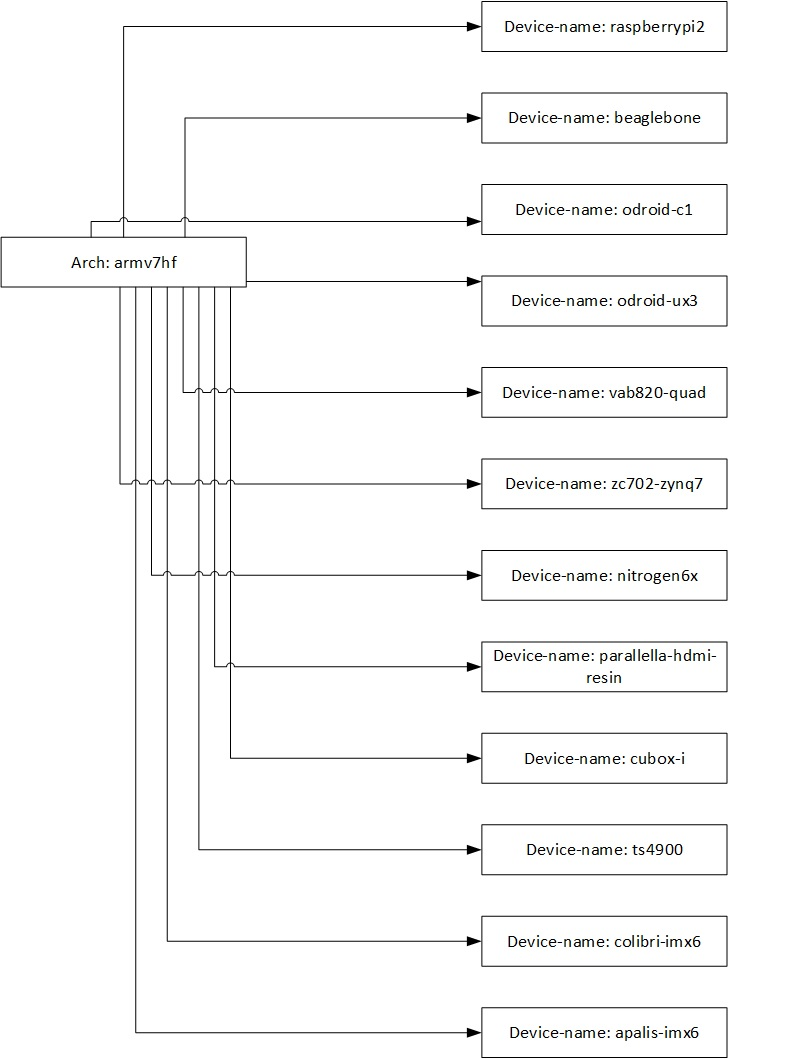
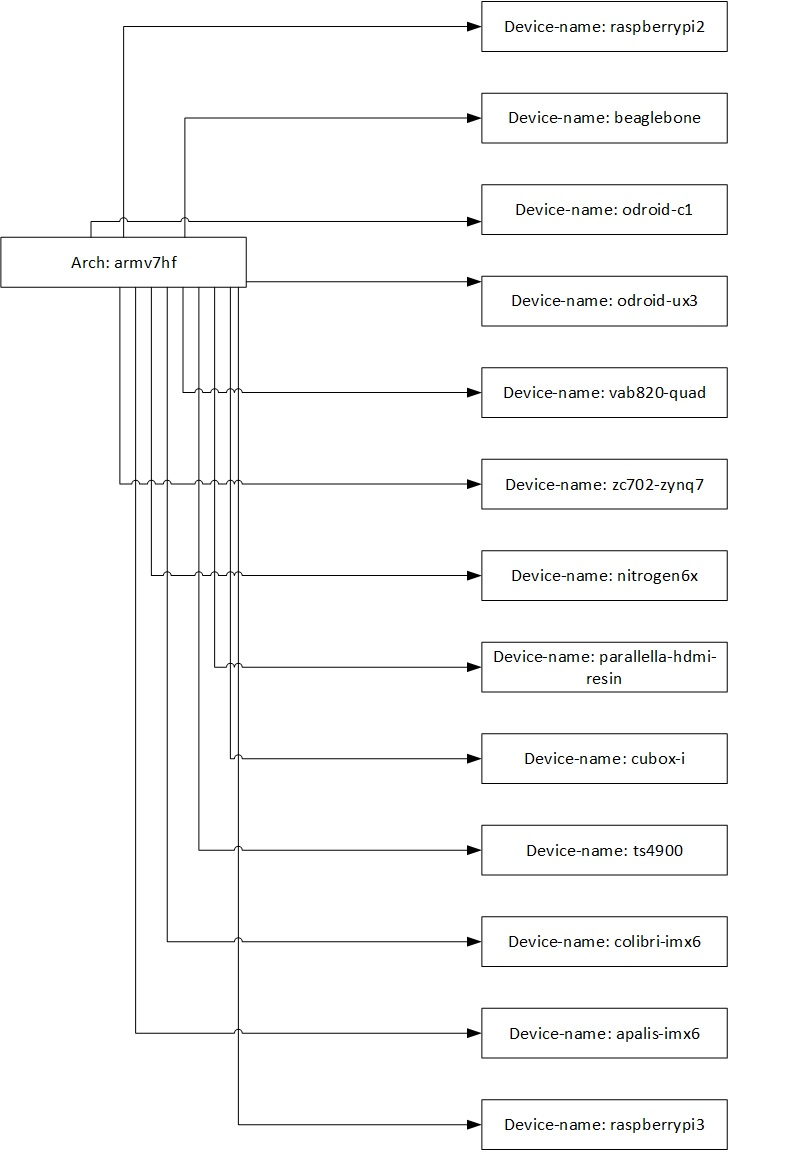
Add armel, ts7700 and RPi3 to base images docs

diff --git a/pages/runtime/resin-base-images.md b/pages/runtime/resin-base-images.md
@@ -97,6 +97,11 @@ __Note:__ all the node slim images use resin/raspberrypi-systemd as the base os.
 | resin/colibri-imx6-node | The Node.js buildpack image for Node.js apps for Colibri iMX6dl. Details about the Node.js image can be found [here](#node). See our [tips](#tips) section on how to enable systemd in your image. | Refer [here](#node) | [dockerhub][armv7-colibri-imx6-node-dockerhub-link], [github][armv7-colibri-imx6-node-github-link] | For available image tags, refer [here][armv7-colibri-imx6-node-dockerhub-tag-link] |
 | resin/colibri-imx6-python | The Python buildpack image for Python apps for Colibri iMX6dl. See our [tips](#tips) section on how to enable systemd in your image. | python, python-pip, python-dev, python-dbus, python-virtualenv, python-setuptools  | [dockerhub][armv7-colibri-imx6-python-dockerhub-link], [github][armv7-colibri-imx6-python-github-link] | latest, jessie, wheezy |
 | resin/colibri-imx6-golang | The Go buildpack image for Go apps for Colibri iMX6dl. Details about the Go image can be found [here](#golang) | Refer [here](#golang) | [dockerhub][armv7-colibri-imx6-golang-dockerhub-link], [github][armv7-colibri-imx6-golang-github-link] | For available image tags, refer [here][armv7-colibri-imx6-golang-dockerhub-tag-link] |
+| resin/raspberrypi3-debian | The bare bones OS image for RPI3. Apt sources.list from raspbian repository: [http://archive.raspbian.org/raspbian/](armv7-rpi2-sourceslist) added! See our [tips](#tips) section on how to enable systemd in your image. | usbutils, net-tools, iputils-ping, module-init-tools, less, nano, i2c-tools, libraspberrypi-bin | [dockerhub][armv7-rpi3-dockerhub-link], [github][armv7-rpi3-github-link] | latest, jessie, wheezy |
+| resin/raspberrypi3-buildpack-deps | The buildpack-deps image for RPI3. Details about buildpack-deps can be found [here](#buildpack-deps). See our [tips](#tips) section on how to enable systemd in your image. | Refer [here](#buildpack-deps) | [dockerhub][armv7-rpi3-buildpack-deps-dockerhub-link], [github][armv7-rpi3-buildpack-deps-github-link] | latest, jessie, wheezy, jessie-scm, wheezy-scm, jessie-curl, wheezy-curl |
+| resin/raspberrypi3-node | The Node.js buildpack image for Node.js apps for RPI3. Details about the Node.js image can be found [here](#node). See our [tips](#tips) section on how to enable systemd in your image. | Refer [here](#node) | [dockerhub][armv7-rpi3-node-dockerhub-link], [github][armv7-rpi3-node-github-link] | For available image tags, refer [here][armv7-rpi3-node-dockerhub-tag-link] |
+| resin/raspberrypi3-python | The Python buildpack image for Python apps for RPI3. See our [tips](#tips) section on how to enable systemd in your image. | python, python-pip, python-dev, python-dbus, python-virtualenv, python-setuptools  | [dockerhub][armv7-rpi3-python-dockerhub-link], [github][armv7-rpi3-python-github-link] | latest, jessie, wheezy |
+| resin/raspberrypi3-golang | The Go buildpack image for Go apps for RPI3. Details about the Go image can be found [here](#golang) | Refer [here](#golang) | [dockerhub][armv7-rpi3-golang-dockerhub-link], [github][armv7-rpi3-golang-github-link] | For available image tags, refer [here][armv7-rpi3-golang-dockerhub-tag-link] |
 
 ### i386: Intel Edison
 
@@ -120,11 +125,25 @@ __Note:__ all the node slim images use resin/raspberrypi-systemd as the base os.
 |:-----------|:------------|:------------|:------------|:------------|
 | resin/amd64-debian| The base OS image for amd64 devices (Intel NUC) | minbase, sudo | [dockerhub][amd64-dockerhub-link], [github][amd64-github-link] | latest, jessie, wheezy |
 | resin/amd64-systemd | The image with full systemd init system installed for amd64 devices. See our [tips](#tips) section on how to enable systemd in your image. | systemd | [dockerhub][amd64-systemd-dockerhub-link], [github][amd64-systemd-github-link] | latest, jessie, wheezy | 
-| resin/nuc-debian | The bare bones OS image for Intel NUC. See our [tips](#tips) section on how to enable systemd in your image. | usbutils, net-tools, iputils-ping, module-init-tools, less, nano, i2c-tools, libmraa | [dockerhub][amd64-nuc-dockerhub-link], [github][amd64-nuc-github-link] | latest, jessie, wheezy |
+| resin/nuc-debian | The bare bones OS image for Intel NUC. See our [tips](#tips) section on how to enable systemd in your image. | usbutils, net-tools, iputils-ping, module-init-tools, less, nano, i2c-tools | [dockerhub][amd64-nuc-dockerhub-link], [github][amd64-nuc-github-link] | latest, jessie, wheezy |
 | resin/nuc-buildpack-deps | The buildpack-deps image for Intel NUC. Details about buildpack-deps can be found [here](#buildpack-deps). See our [tips](#tips) section on how to enable systemd in your image. | Refer [here](#buildpack-deps) | [dockerhub][amd64-nuc-buildpack-deps-dockerhub-link], [github][amd64-nuc-buildpack-deps-github-link] | latest, jessie, wheezy, sid, jessie-scm, wheezy-scm, jessie-curl, wheezy-curl |
 | resin/nuc-node | The Node.js buildpack image for Node.js apps for Intel NUC. Details about the Node.js image can be found [here](#node). See our [tips](#tips) section on how to enable systemd in your image. | Refer [here](#node) | [dockerhub][amd64-nuc-node-dockerhub-link], [github][amd64-nuc-node-github-link] | For available image tags, refer [here][amd64-nuc-node-dockerhub-tag-link] |
 | resin/nuc-python | The Python buildpack image for Python apps for Intel NUC. See our [tips](#tips) section on how to enable systemd in your image. | python, python-pip, python-dev, python-dbus, python-virtualenv, python-setuptools  | [dockerhub][amd64-nuc-python-dockerhub-link], [github][amd64-nuc-python-github-link] | latest, jessie, wheezy |
 | resin/nuc-golang | The Go buildpack image for Go apps for Intel NUC. Details about the Go image can be found [here](#golang) | Refer [here](#golang) | [dockerhub][amd64-nuc-golang-dockerhub-link], [github][amd64-nuc-golang-github-link] | For available image tags, refer [here][amd64-nuc-golang-dockerhub-tag-link] |
+
+### ARMv5: Technologic TS-7700
+
+![ARMv5 Tree Diagram](/img/armel-diagram.jpg)
+
+| Image | Description | Installed Packages | Repository | Available Tag|
+|:-----------|:------------|:------------|:------------|:------------|
+| resin/armel-debian| The base OS image for ARMv5 devices (Technologic TS-7700) | minbase, sudo | [dockerhub][armel-dockerhub-link], [github][armel-github-link] | latest, jessie, wheezy |
+| resin/armel-systemd | The image with full systemd init system installed for ARMv5 devices. See our [tips](#tips) section on how to enable systemd in your image. | systemd | [dockerhub][armel-systemd-dockerhub-link], [github][armel-systemd-github-link] | latest, jessie, wheezy | 
+| resin/ts7700-debian | The bare bones OS image for Technologic TS-7700. See our [tips](#tips) section on how to enable systemd in your image. | usbutils, net-tools, iputils-ping, module-init-tools, less, nano, i2c-tools | [dockerhub][armel-ts7700-dockerhub-link], [github][armel-ts7700-github-link] | latest, jessie, wheezy |
+| resin/ts7700-buildpack-deps | The buildpack-deps image for Technologic TS-7700. Details about buildpack-deps can be found [here](#buildpack-deps). See our [tips](#tips) section on how to enable systemd in your image. | Refer [here](#buildpack-deps) | [dockerhub][armel-ts7700-buildpack-deps-dockerhub-link], [github][armel-ts7700-buildpack-deps-github-link] | latest, jessie, wheezy, sid, jessie-scm, wheezy-scm, jessie-curl, wheezy-curl |
+| resin/ts7700-node | The Node.js buildpack image for Node.js apps for Technologic TS-7700. Details about the Node.js image can be found [here](#node). See our [tips](#tips) section on how to enable systemd in your image. | Refer [here](#node) | [dockerhub][armel-ts7700-node-dockerhub-link], [github][armel-ts7700-node-github-link] | For available image tags, refer [here][armel-ts7700-node-dockerhub-tag-link] |
+| resin/ts7700-python | The Python buildpack image for Python apps for Technologic TS-7700. See our [tips](#tips) section on how to enable systemd in your image. | python, python-pip, python-dev, python-dbus, python-virtualenv, python-setuptools  | [dockerhub][armel-ts7700-python-dockerhub-link], [github][armel-ts7700-python-github-link] | latest, jessie, wheezy |
+| resin/ts7700-golang | The Go buildpack image for Go apps for Technologic TS-7700. Details about the Go image can be found [here](#golang) | Refer [here](#golang) | [dockerhub][armel-ts7700-golang-dockerhub-link], [github][armel-ts7700-golang-github-link] | For available image tags, refer [here][armel-ts7700-golang-dockerhub-tag-link] |
 
 #### <a name="tips"></a>Tips
 
@@ -136,7 +155,7 @@ __Note:__ all the node slim images use resin/raspberrypi-systemd as the base os.
 
 ## <a name="base-images"></a>Base Images:
 
-These are base images for different arch: armv6, armv7, i386, amd64.
+These are base images for different arch: armv6, armv7, i386, amd64 and armv5 (armel).
 
 | Image | Arch | Installed Packages | Repository | Available Tag|
 |:-----------|:------------|:------------|:------------|:------------|
@@ -144,6 +163,7 @@ These are base images for different arch: armv6, armv7, i386, amd64.
 | resin/armv7hf-debian | armv7 | [wheezy][installed-pkg-armv7-wheezy], [jessie][installed-pkg-armv7-jessie], [sid][installed-pkg-armv7-sid] | [dockerhub][armv7hf-dockerhub-link], [github][armv7hf-github-link] | latest, jessie, wheezy, sid | 
 | resin/i386-debian | i386 | [wheezy][installed-pkg-i386-wheezy], [jessie][installed-pkg-i386-jessie] | [dockerhub][i386-dockerhub-link], [github][i386-github-link] | latest, jessie, wheezy |
 | resin/amd64-debian | amd64 | [wheezy][installed-pkg-amd64-wheezy], [jessie][installed-pkg-amd64-jessie] | [dockerhub][amd64-dockerhub-link], [github][amd64-github-link] | latest, jessie, wheezy |
+| resin/armel-debian | armel | [wheezy][installed-pkg-armel-wheezy], [jessie][installed-pkg-armel-jessie] | [dockerhub][armel-dockerhub-link], [github][armel-github-link] | latest, jessie, wheezy |
 
 __Note:__ minbase is a variant of image built by debootstrap which means only essential packages and apt installed.
 
@@ -207,7 +227,9 @@ This image does not contain the common packages contained in the default tag and
 [armv7hf-github-link]:https://github.com/resin-io-library/resin-armhfv7-debian/
 [i386-github-link]:https://github.com/resin-io-library/resin-i386-debian/
 [amd64-github-link]:https://github.com/resin-io-library/resin-amd64-debian/
-[amd64-dockerhub-link]:https://registry.hub.docker.com/u/resin/amd64-debian/
+[amd64-dockerhub-link]:https://registry.hub.docker.com/u/resin/amd64-debian/#
+[armel-github-link]:https://github.com/resin-io-library/resin-armel-debian/
+[armel-dockerhub-link]:https://registry.hub.docker.com/u/resin/armel-debian/
 
 [installed-pkg-rpi-wheezy]:https://resin-packages.s3.amazonaws.com/image_info/rpi-raspbian/wheezy/wheezy
 [installed-pkg-rpi-jessie]:https://resin-packages.s3.amazonaws.com/image_info/rpi-raspbian/jessie/jessie
@@ -218,6 +240,8 @@ This image does not contain the common packages contained in the default tag and
 [installed-pkg-i386-jessie]:https://resin-packages.s3.amazonaws.com/image_info/i386-debian/jessie/jessie
 [installed-pkg-amd64-wheezy]:https://resin-packages.s3.amazonaws.com/image_info/amd64-debian/wheezy/wheezy
 [installed-pkg-amd64-jessie]:https://resin-packages.s3.amazonaws.com/image_info/amd64-debian/jessie/jessie
+[installed-pkg-armel-wheezy]:https://resin-packages.s3.amazonaws.com/image_info/amd64-debian/wheezy/wheezy
+[installed-pkg-armel-jessie]:https://resin-packages.s3.amazonaws.com/image_info/amd64-debian/jessie/jessie
 
 [systemd-wiki]:https://wiki.debian.org/systemd
 [golang-wiki]:https://en.wikipedia.org/wiki/Go_%28programming_language%29
@@ -384,6 +408,19 @@ This image does not contain the common packages contained in the default tag and
 [armv7-apalis-imx6-golang-dockerhub-link]:https://registry.hub.docker.com/u/resin/apalis-imx6-golang/
 [armv7-apalis-imx6-golang-dockerhub-tag-link]:https://registry.hub.docker.com/u/resin/apalis-imx6-golang/tags/manage/
 [armv7-apalis-imx6-golang-github-link]:https://github.com/resin-io-library/base-images/tree/master/golang/apalis-imx6
+[armv7-rpi3-dockerhub-link]:https://registry.hub.docker.com/u/resin/raspberrypi3-debian/
+[armv7-rpi3-buildpack-deps-dockerhub-link]:https://registry.hub.docker.com/u/resin/raspberrypi3-buildpack-deps/
+[armv7-rpi3-node-dockerhub-link]:https://registry.hub.docker.com/u/resin/raspberrypi3-node/
+[armv7-rpi3-node-dockerhub-tag-link]:https://registry.hub.docker.com/u/resin/raspberrypi3-node/tags/manage/
+[armv7-rpi3-python-dockerhub-link]:https://registry.hub.docker.com/u/resin/raspberrypi3-python/
+[armv7-rpi3-sourceslist]:http://archive.raspbian.org/raspbian/
+[armv7-rpi3-github-link]:https://github.com/resin-io-library/base-images/tree/master/device-base/raspberrypi3
+[armv7-rpi3-buildpack-deps-github-link]:https://github.com/resin-io-library/base-images/tree/master/buildpack-deps/raspberrypi3
+[armv7-rpi3-node-github-link]:https://github.com/resin-io-library/base-images/tree/master/node/raspberrypi3
+[armv7-rpi3-python-github-link]:https://github.com/resin-io-library/base-images/tree/master/python/raspberrypi3
+[armv7-rpi3-golang-dockerhub-link]:https://registry.hub.docker.com/u/resin/raspberrypi3-golang/
+[armv7-rpi3-golang-dockerhub-tag-link]:https://registry.hub.docker.com/u/resin/raspberrypi3-golang/tags/manage/
+[armv7-rpi3-golang-github-link]:https://github.com/resin-io-library/base-images/tree/master/golang/raspberrypi3
 
 [i386-systemd-dockerhub-link]:https://registry.hub.docker.com/u/resin/i386-systemd/
 [i386-systemd-github-link]:https://github.com/resin-io-library/base-images/tree/master/systemd/i386
@@ -414,3 +451,18 @@ This image does not contain the common packages contained in the default tag and
 [amd64-nuc-golang-dockerhub-link]:https://registry.hub.docker.com/u/resin/nuc-golang/
 [amd64-nuc-golang-dockerhub-tag-link]:https://registry.hub.docker.com/u/resin/nuc-golang/tags/manage/
 [amd64-nuc-golang-github-link]:https://github.com/resin-io-library/base-images/tree/master/golang/nuc
+
+[armel-systemd-dockerhub-link]:https://registry.hub.docker.com/u/resin/armel-systemd/
+[armel-systemd-github-link]:https://github.com/resin-io-library/base-images/tree/master/systemd/armel
+[armel-ts7700-dockerhub-link]:https://registry.hub.docker.com/u/resin/ts7700-debian/
+[armel-ts7700-buildpack-deps-dockerhub-link]:https://registry.hub.docker.com/u/resin/ts7700-buildpack-deps/
+[armel-ts7700-node-dockerhub-link]:https://registry.hub.docker.com/u/resin/ts7700-node/
+[armel-ts7700-node-dockerhub-tag-link]:https://registry.hub.docker.com/u/resin/ts7700-node/tags/manage/
+[armel-ts7700-python-dockerhub-link]:https://registry.hub.docker.com/u/resin/ts7700-python/
+[armel-ts7700-github-link]:https://github.com/resin-io-library/base-images/tree/master/device-base/ts7700
+[armel-ts7700-buildpack-deps-github-link]:https://github.com/resin-io-library/base-images/tree/master/buildpack-deps/ts7700
+[armel-ts7700-node-github-link]:https://github.com/resin-io-library/base-images/tree/master/node/ts7700
+[armel-ts7700-python-github-link]:https://github.com/resin-io-library/base-images/tree/master/python/ts7700
+[armel-ts7700-golang-dockerhub-link]:https://registry.hub.docker.com/u/resin/ts7700-golang/
+[armel-ts7700-golang-dockerhub-tag-link]:https://registry.hub.docker.com/u/resin/ts7700-golang/tags/manage/
+[armel-ts7700-golang-github-link]:https://github.com/resin-io-library/base-images/tree/master/golang/ts7700
